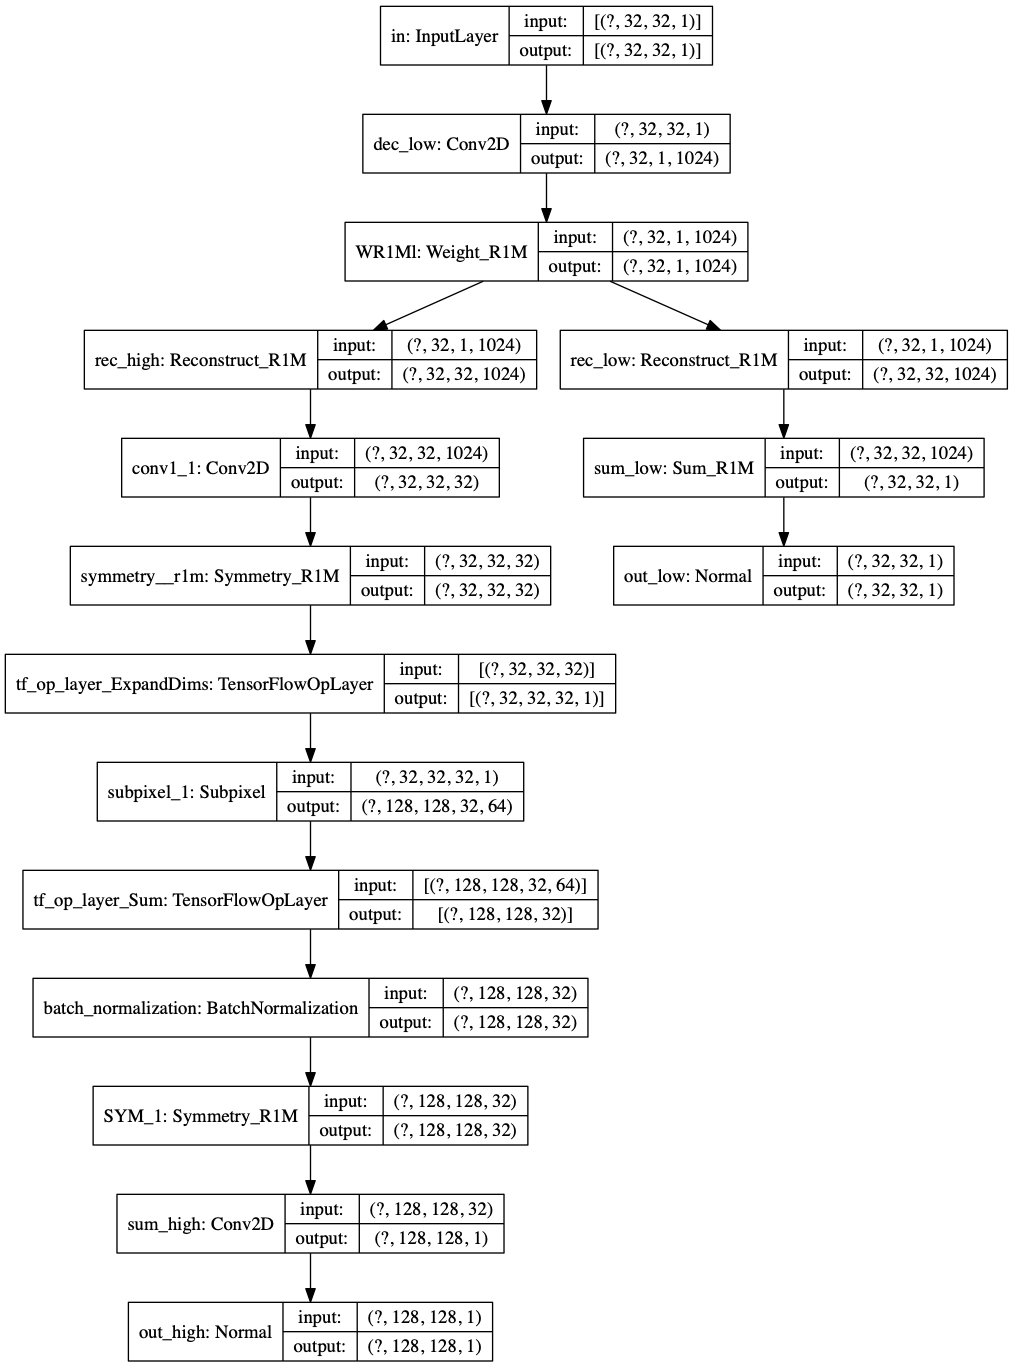
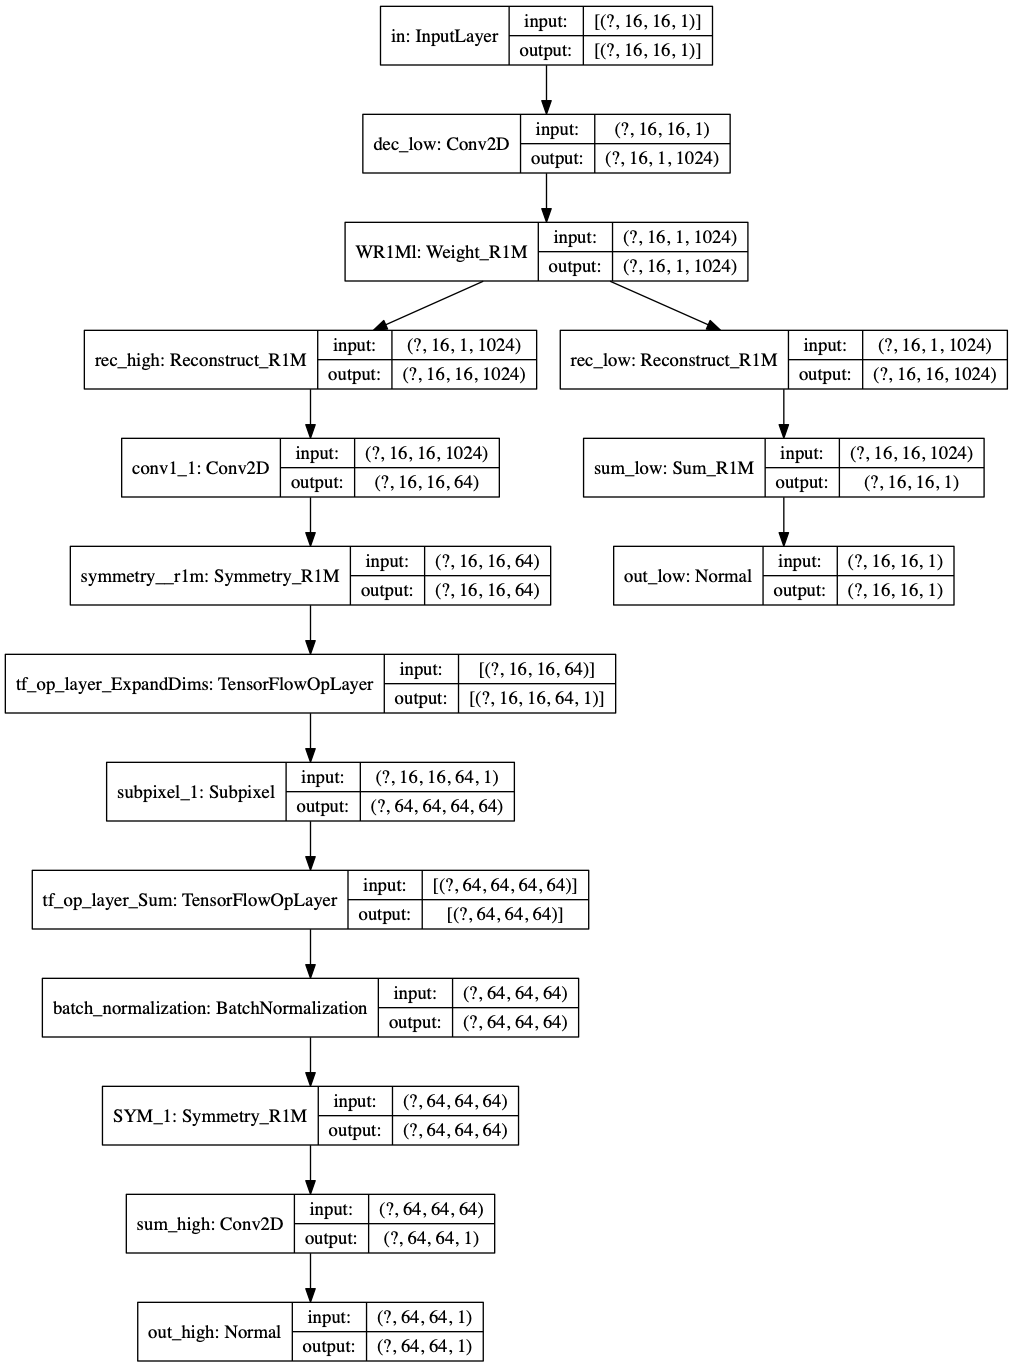
attemp filters

diff --git a/model.py b/model.py
@@ -166,7 +166,7 @@ def make_generator_model(len_low_size=16, scale=4):
 
     Rech = Reconstruct_R1M(1024, name='rec_high')(WeiR1Ml)
 
-    conv1 = tf.keras.layers.Conv2D(32, [1, 1], strides=1, padding='same', data_format="channels_last", 
+    conv1 = tf.keras.layers.Conv2D(64, [1, 1], strides=1, padding='same', data_format="channels_last", 
                                     activation='relu', use_bias=False,
                                     name='conv1_1')(Rech)
     sym = Symmetry_R1M()(conv1)
@@ -512,8 +512,8 @@ def plot_to_image(figure):
     return image
 
 if __name__ == '__main__':
-    Gen = make_generator_model(len_low_size=32, scale=4)
-    Dis = make_discriminator_model(len_low_size=32, scale=4)
+    Gen = make_generator_model(len_low_size=16, scale=4)
+    Dis = make_discriminator_model(len_low_size=16, scale=4)
     print(Gen.summary())
     tf.keras.utils.plot_model(Gen, to_file='G.png', show_shapes=True)
     print(Dis.summary())
